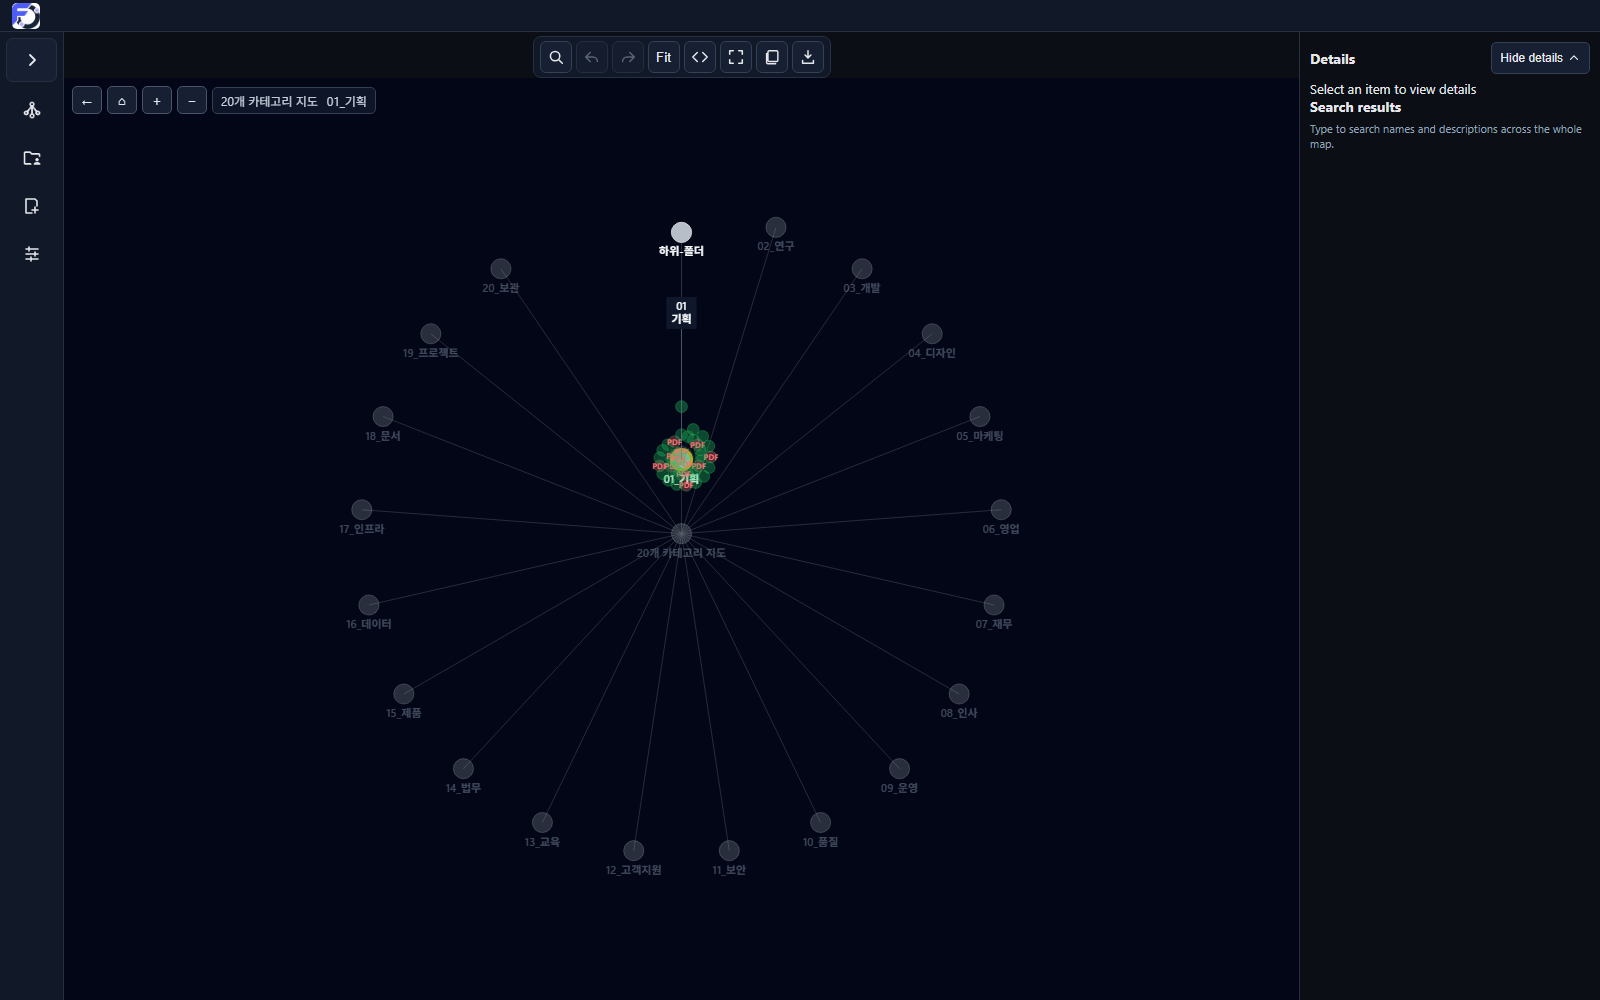
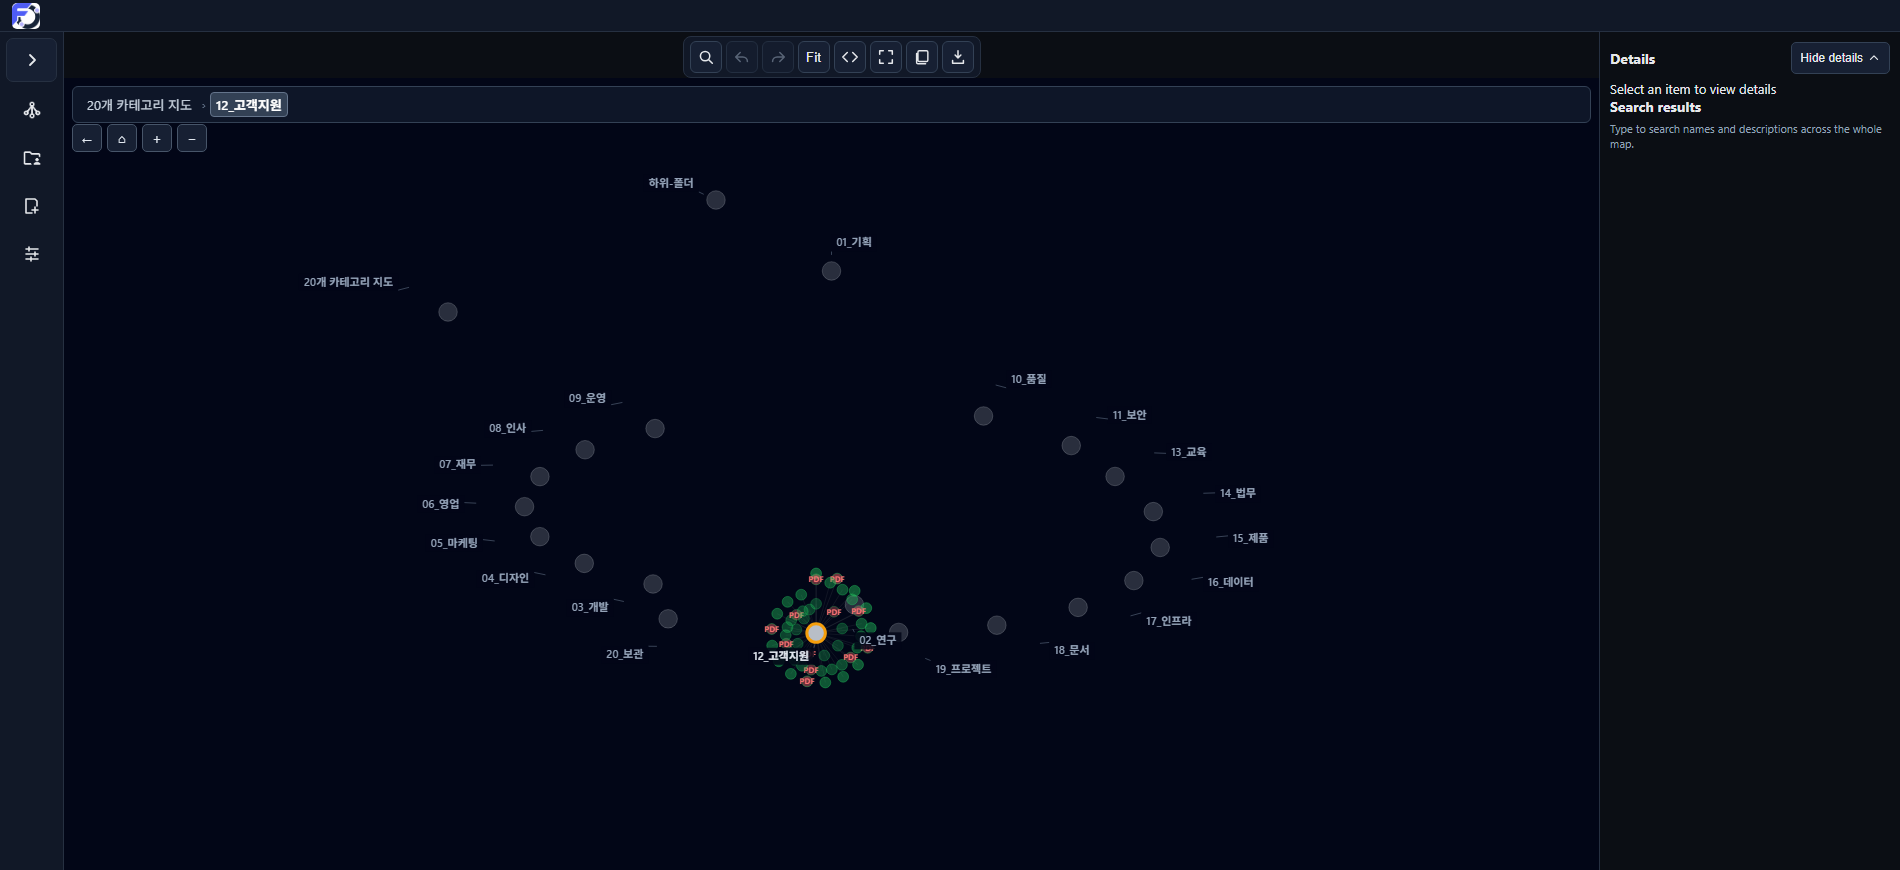
Add readability, context and breadcrumb verification

diff --git a/docs/engine/FILEORBIT-PC-LARGE-MAP-INTEGRATION.md b/docs/engine/FILEORBIT-PC-LARGE-MAP-INTEGRATION.md
@@ -240,3 +240,30 @@ These are machine checks, not the human animation usability verdict.
 
 
 
+
+## Readable active nodes, peripheral context and top breadcrumb
+
+- Active immediate children receive default 11px filename labels, not only selected nodes.
+- Labels use screen-space collision placement with leader lines, viewport clamping and extension-preserving truncation; full path is exposed as the canvas tooltip.
+- PDF labels remain `#F87171`.
+- The focused folder is selected and retains its label after completion.
+- Dimmed context consists only of root and first-level category folders in a peripheral band; unrelated background edges/descendants are not painted in the central active area.
+- Background/context labels and nodes remain directly clickable; faded nodes below the opacity threshold do not receive hits.
+- A dedicated full-width breadcrumb row sits below the top toolbar with `aria-current="page"`, native buttons, separators, keyboard activation and horizontal scrolling for long paths.
+- Current hierarchy comes from the actual path, not click history. Back remains a secondary history action.
+
+Executed label metrics:
+
+- 1600px test: 50/50 immediate children labeled; overlap 0; outside viewport 0; central background nodes 0; PDF color red;
+- 1900×870 `12_고객지원`: 49/49 immediate labels; overlap 0; outside 0;
+- 1280×800 `12_고객지원`: 49/49 immediate labels; overlap 0; outside 0.
+- Breadcrumb at nested: `20개 카테고리 지도 / 01_기획 / 하위-폴더`, current `하위-폴더`; activating `01_기획` restored `cat-1` and current marker.
+
+Screenshots:
+
+- `readability-1900-overview.png`
+- `readability-1900-active-12.png`
+- `readability-1900-nested.png`
+- `readability-1900-breadcrumb-return.png`
+- `readability-1280-active-12.png`
+- `transition-cat1.gif` (fresh 1900px recording)

diff --git a/tests/harness/m5-exploration/integration-checks/README.md b/tests/harness/m5-exploration/integration-checks/README.md
@@ -34,3 +34,5 @@ These use test hooks/picker stubs, not native OS acceptance.
 - `transition-cat1.gif` plus six intermediate frames: visual transition evidence.
 
 - `transition-check.mjs` also asserts normalized endpoint opacity/positions, final painted pixels, global 22/22 folder visibility, direct larger/background click, and pan interruption.
+
+- `transition-check.mjs` now also checks default labels for every immediate child, label collision/viewport bounds, PDF label color, no central background nodes, aria-current breadcrumb navigation and same-name path distinction.
